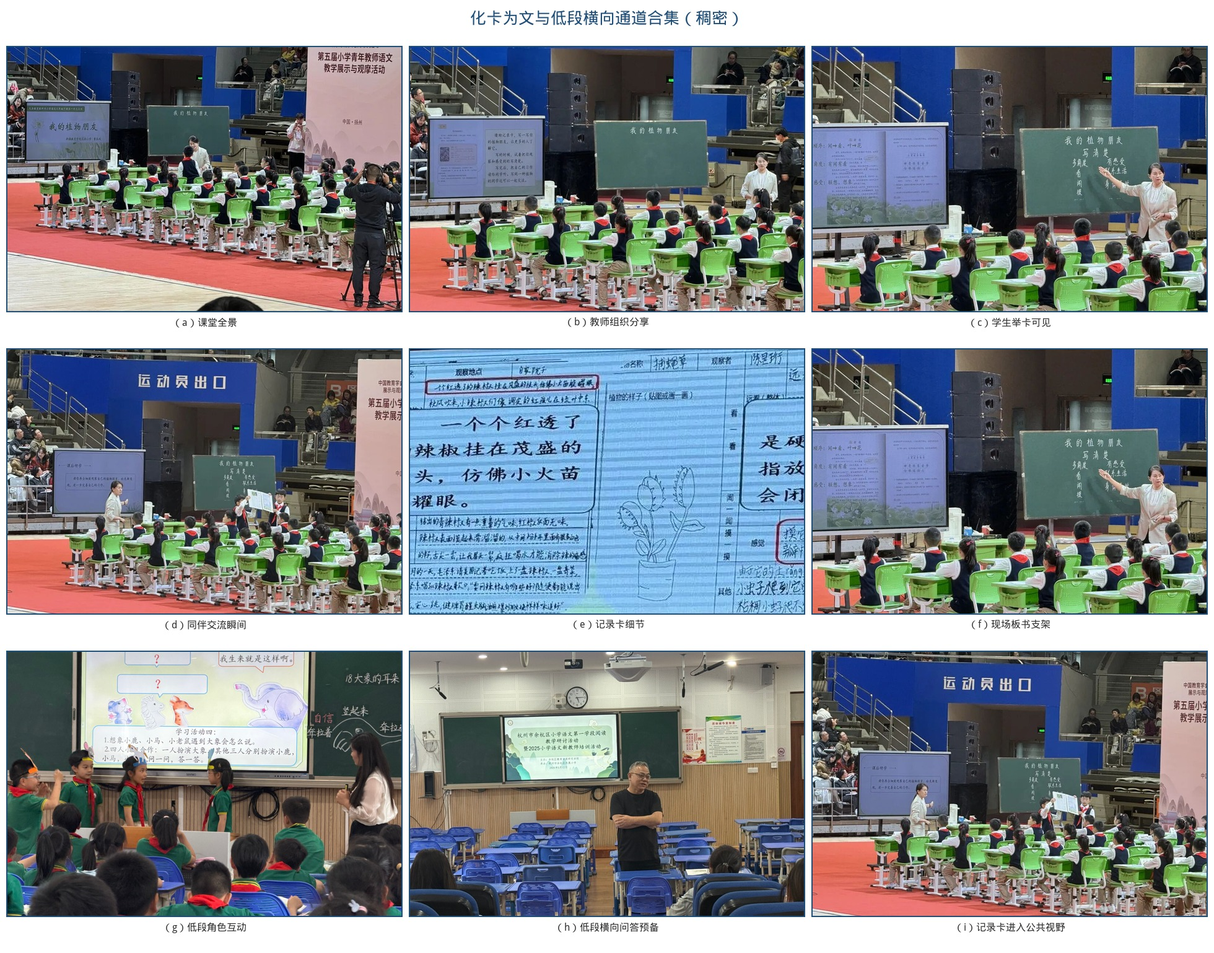
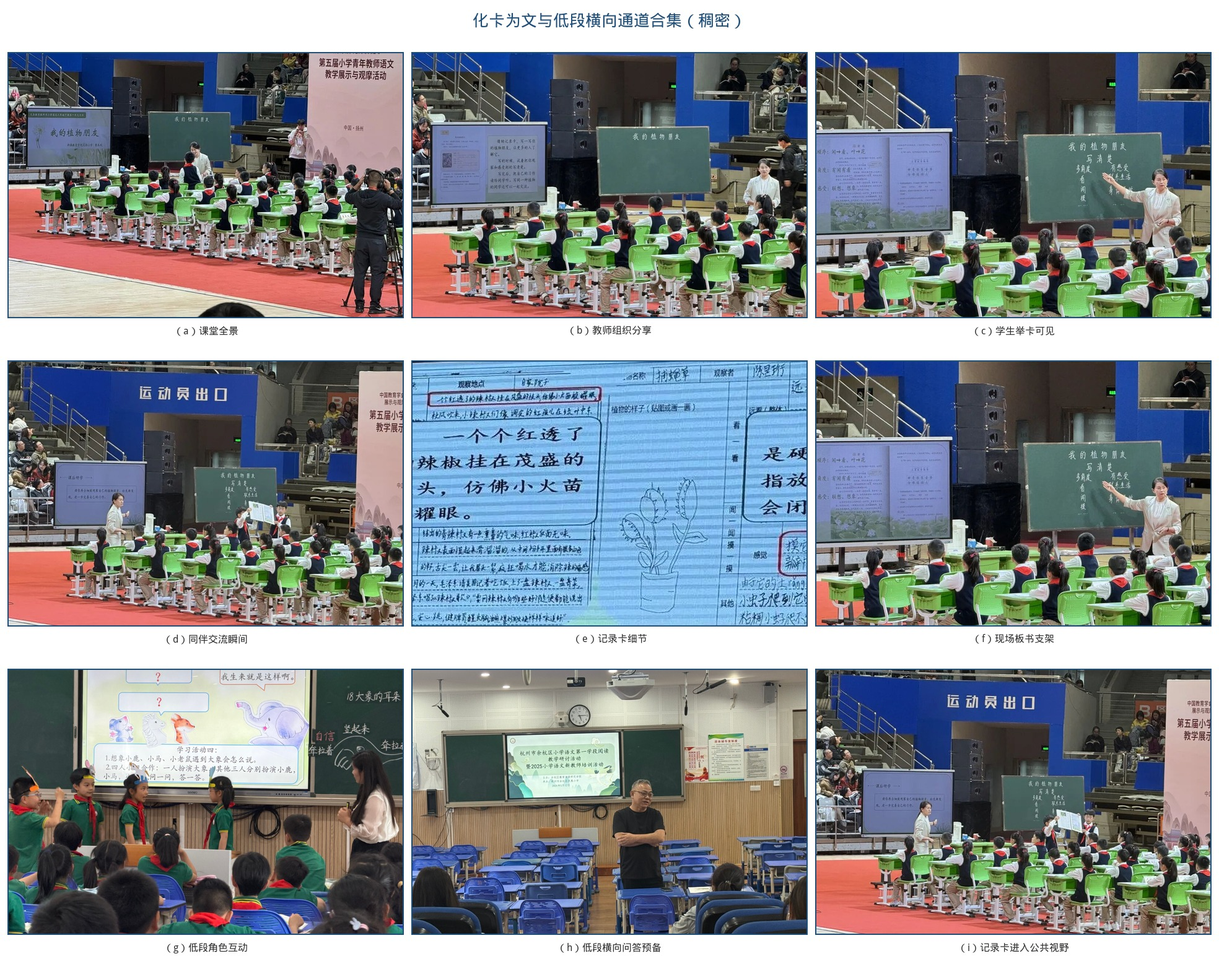
图13改为规范2×2拼版，参考文献只保留中文文献
删除UNESCO与米德等外文条目并重编号；图13四格对应字卡投屏、行列就座、举手应答、角色扮演。

Changed region(s): [[0.0, 0.0, 0.9959, 0.9987], [0.8092, 0.4057, 0.8403, 0.4681], [0.249, 0.749, 0.2801, 0.7802]]

diff --git a/scripts/compose_dense_plates.py b/scripts/compose_dense_plates.py
@@ -119,22 +119,26 @@ def dense_grid(
     DENSE.mkdir(parents=True, exist_ok=True)
     n = len(items)
     nrows = (n + ncols - 1) // ncols
-    pad, cap_h, title_h, gap = 14, 48, 64, 10
+    pad, cap_h, title_h, gap = 16, 56, 72, 12
+    if ncols == 2 and n == 4:
+        cell = (860, 560)
+        cap_h, title_h, gap = 64, 78, 16
     W = ncols * cell[0] + (ncols + 1) * gap
     H = title_h + nrows * (cell[1] + cap_h) + (nrows + 1) * gap
     canvas = Image.new("RGB", (W, H), "white")
     draw = ImageDraw.Draw(canvas)
-    draw.text((W // 2, 16), title, fill=NAVY, font=_font(26), anchor="mt")
+    draw.text((W // 2, 20), title, fill=NAVY, font=_font(30 if ncols == 2 and n == 4 else 26), anchor="mt")
     for i, (path, caption) in enumerate(items):
         r, c = divmod(i, ncols)
         x = gap + c * (cell[0] + gap)
         y = title_h + gap + r * (cell[1] + cap_h + gap)
         img = _fit(path, cell[0], cell[1], mode=fit)
         canvas.paste(img, (x, y))
-        draw.rectangle([x, y, x + cell[0] - 1, y + cell[1] - 1], outline=NAVY, width=2)
+        draw.rectangle([x, y, x + cell[0] - 1, y + cell[1] - 1], outline=NAVY,
+                       width=3 if ncols == 2 and n == 4 else 2)
         # wrap caption roughly
-        draw.text((x + cell[0] // 2, y + cell[1] + 8), caption, fill="#2F2F2F",
-                  font=_font(16), anchor="mt")
+        draw.text((x + cell[0] // 2, y + cell[1] + 12), caption, fill="#2F2F2F",
+                  font=_font(22 if ncols == 2 and n == 4 else 16), anchor="mt")
     dest = OUT / out_name
     canvas.save(dest, quality=92)
     # also keep a copy under dense/
@@ -298,9 +302,14 @@ def compose_dense() -> None:
         "（a）字卡／谜语投屏", "（b）低段课堂就座",
         "（c）举手应答", "（d）角色扮演",
     ]
-    dense_grid(list(zip(staged["low"], labels)), "plate_low.jpg",
-               "低段阅读研讨合集：情境打开与通道仍偏放射", ncols=2,
-               cell=(720, 460))
+    dense_grid(
+        list(zip(staged["low"], labels)),
+        "plate_low.jpg",
+        "图13 低段阅读研讨合集（2×2）",
+        ncols=2,
+        cell=(860, 560),
+        fit="cover",
+    )
 
     meta = {k: [str(p.relative_to(ROOT)) for p in v] for k, v in staged.items()}
     (DENSE / "manifest.json").write_text(json.dumps(meta, ensure_ascii=False, indent=2), encoding="utf-8")

diff --git a/失衡·校准·均衡_AI赋能小学语文三元协同师生互动优化策略.md b/失衡·校准·均衡_AI赋能小学语文三元协同师生互动优化策略.md
@@ -45,7 +45,7 @@
 若将师生互动等同于课堂提问，交往便进不了教学过程的基本构成。评价优先看进度和知识点覆盖，教师便不敢将时间交给开放探究。学生的倾听、表达、合作缺少常态训练，即使获得机会，也不容易形成高质量对话。生成式人工智能进入后，若提问权和评价权再让给机器，教师容易变成播放者，学生容易变成校对者。关系层面不校准，技术越流畅，主客关系越难松动。
 
 ### （三）技术失衡：工具越位，遮蔽真实对话
-形式与关系未获校准，生成式工具便容易从支架变为越位的判断者：替学生思考，替教师判断，呈现替答、替评、替演、替证等越位表现。《中小学生成式人工智能使用指南（2025年版）》提出“育人为本、技术为用”，明确教师不得将其作为替代性教学主体，小学阶段学生不得独自使用开放式内容生成功能；《中小学人工智能通识教育指南（2025年版）》与《教师生成式人工智能应用指引（第一版）》亦分别从学生素养与教师专业应用侧给出边界。UNESCO《教师人工智能能力框架》《学生人工智能能力框架》及《生成式人工智能教育与研究应用指南》也指出，教学关系可以转为教师—AI—学生，核心仍是人的主体性。祝智庭等提出的人本人工智能范式，同样强调技术服务于人的发展而非替代人。黄荣怀将数字化进阶概括为环境、资源、数字教学法：若停留在设备在场，进不了教学法层面，便容易高投入、低回报。
+形式与关系未获校准，生成式工具便容易从支架变为越位的判断者：替学生思考，替教师判断，呈现替答、替评、替演、替证等越位表现。《中小学生成式人工智能使用指南（2025年版）》提出“育人为本、技术为用”，明确教师不得将其作为替代性教学主体，小学阶段学生不得独自使用开放式内容生成功能；《中小学人工智能通识教育指南（2025年版）》与《教师生成式人工智能应用指引（第一版）》亦分别从学生素养与教师专业应用侧给出边界。教学关系可以转为教师—AI—学生，核心仍是人的主体性。祝智庭等提出的人本人工智能范式，同样强调技术服务于人的发展而非替代人。黄荣怀将数字化进阶概括为环境、资源、数字教学法：若停留在设备在场，进不了教学法层面，便容易高投入、低回报。
 
 #### 1. 替答现象：工具代答，学生跳过自主思考
 学生对着屏幕读标准赏析，教师点头，进入下一题。主体都在场，过程没有生成。直接输出寓意、中心思想或范文，学生跳过探究与试错，概念交互被切断。这也与《使用指南》禁止将生成内容直接作为作业或考试答案的要求相悖。
@@ -57,7 +57,7 @@
 角色陪练、人机问答替代真实交流与情意回应。机器可以模拟对话，但不能代替学生在同伴面前真实表达、倾听与回应；一旦以人机问答充当情意交流，课堂的共情与价值判断便被架空。
 
 #### 4. 替证现象：工具出场，被误认为课堂升级
-将是否使用生成式人工智能当作课堂先进的证明，是第四类越位。操作层流畅，不等于概念层发生。《教育强国建设规划纲要（2024—2035年）》强调以教育数字化开辟发展新赛道；数字化若只停留在设备与平台，而未进入教学法层面的通道、权责与边界设计，就容易出现高投入、低互动质量。UNESCO《2023年全球教育监测报告》也提醒，教育技术影响的可靠证据仍然不足，技术不能取代教与学所依赖的人际连接。情感体察和价值判断仍须由人完成。三类失衡的识别与校准指向见表1；结构示意见图3，现场用过的板书和记录卡见图4——支架材料往往清楚，缺的是通道和权责。
+将是否使用生成式人工智能当作课堂先进的证明，是第四类越位。操作层流畅，不等于概念层发生。《教育强国建设规划纲要（2024—2035年）》强调以教育数字化开辟发展新赛道；数字化若只停留在设备与平台，而未进入教学法层面的通道、权责与边界设计，就容易出现高投入、低互动质量。教育技术不能取代教与学所依赖的人际连接。情感体察和价值判断仍须由人完成。三类失衡的识别与校准指向见表1；结构示意见图3，现场用过的板书和记录卡见图4——支架材料往往清楚，缺的是通道和权责。
 
 **表1 三类失衡、识别信号与校准指向**
 
@@ -162,7 +162,7 @@
 **图9 复权合集（稠密九联）：同桌互读、持麦解释、支架动笔与习作异构现场**
 
 #### 3. 三元归位：人守判断，防止关系再度弱化
-课堂上是否复位，看两个瞬间：学生说出与预设不同的答案时，教师是接住还是绕开；生成式工具给出看似标准的解读时，教师是宣读还是追问。《守株待兔》可不急于揭示“不可心存侥幸”，先让学生用自己的话说故事，再请工具扮演“守株人”辩解，学生追问庄稼谁来种、兔子会不会再来。工具只负责将问题归类投屏，教师抓住“侥幸—劳动—事理”组织对话。生成文本可以连贯，但不等于课文意义本身。判断仍须放到文本证据里，由学生比照、质疑、论证——自我与意义在互动中生成（米德）。关系校准之后，还要将终答和评分从机器手里拿回来。
+课堂上是否复位，看两个瞬间：学生说出与预设不同的答案时，教师是接住还是绕开；生成式工具给出看似标准的解读时，教师是宣读还是追问。《守株待兔》可不急于揭示“不可心存侥幸”，先让学生用自己的话说故事，再请工具扮演“守株人”辩解，学生追问庄稼谁来种、兔子会不会再来。工具只负责将问题归类投屏，教师抓住“侥幸—劳动—事理”组织对话。生成文本可以连贯，但不等于课文意义本身。判断仍须放到文本证据里，由学生比照、质疑、论证。关系校准之后，还要将终答和评分从机器手里拿回来。
 
 ### （三）守界之阶：限制越位，让技术回归支架
 守界对应技术失衡。通道有了，权责明了，若没有不可逾越的边界，工具仍会以更精致的方式替答、替评、替演、替证。
@@ -255,7 +255,7 @@
 
 ![](figures/plate_low.jpg)
 
-**图13 低段阅读研讨合集：字卡投屏、举手应答与角色扮演**
+**图13 低段阅读研讨合集（2×2）：（a）字卡／谜语投屏；（b）行列就座；（c）举手应答；（d）角色扮演**
 
 区域“赋能·分层·共生”习作集备与五校联研现场，把支架分层、互评可见做成可观察的教研动作，见图14。
 
@@ -307,24 +307,19 @@
 [2] 教育部基础教育教学指导委员会. 中小学生成式人工智能使用指南（2025年版）[S]. 2025.
 [3] 教育部基础教育教学指导委员会. 中小学人工智能通识教育指南（2025年版）[S]. 2025.
 [4] 教育部教师队伍建设专家指导委员会. 教师生成式人工智能应用指引（第一版）[S]. 2025.
-[5] UNESCO. AI competency framework for teachers[R]. Paris: UNESCO, 2024.
-[6] UNESCO. AI competency framework for students[R]. Paris: UNESCO, 2024.
-[7] UNESCO. Guidance for generative AI in education and research[R]. Paris: UNESCO, 2023.
-[8] 叶子，庞丽娟. 师生互动的本质与特征[J]. 教育研究，2001(4)：30-34.
-[9] 佐斌. 师生互动论——课堂师生互动的心理学研究[M]. 武汉：华中师范大学出版社，2002.
-[10] 叶澜. 让课堂焕发出生命活力——论中小学教学改革的深化[J]. 教育研究，1997(9)：3-8.
-[11] 陈丽. 远程学习的教学交互模型和教学交互层次塔[J]. 中国远程教育，2004(5)：24-28.
-[12] 祝智庭，韩中美，黄昌勤. 教育人工智能（eAI）：人本人工智能的新范式[J]. 电化教育研究，2021，42(1)：5-15.
-[13] 顾小清，王炜. 支持教师专业发展的课堂分析技术新探索[J]. 中国电化教育，2004(7)：18-21.
-[14] 方海光，高辰柱，陈佳. 改进型弗兰德斯互动分析系统及其应用[J]. 中国电化教育，2012(10)：109-113.
-[15] 余文森. 核心素养导向的课堂教学[M]. 上海：上海教育出版社，2017.
-[16] 米德. 心灵、自我与社会[M]. 赵月瑟，译. 上海：上海译文出版社，2018.
-[17] 陈晓波. 数字技术赋能小学语文课堂教学：路径与策略[J]. 语文建设，2023(12)：10.
-[18] 范佳荣，钟绍春. 人工智能技术引领下课堂教学数字化转型的本质认识、实践困境与突破路径[J]. 教育科学研究，2023(4)：11.
-[19] 余胜泉. 教育数字化转型的关键路径[J]. 华东师范大学学报（教育科学版），2023，41(3)：62.
-[20] 北京市人民政府. 人工智能赋能教育新生态　西城区学校展示数智技术重塑教学实践[EB/OL]. (2025-12-24)[2026-09-15]. https://www.beijing.gov.cn/ywdt/gqrd/202512/t20251224_4360512.html.
-[21] 黄荣怀. 数字技术赋能当前教育变革的内在逻辑——从环境、资源到数字教学法[J]. 中国基础教育，2024(1)：10-17.
-[22] UNESCO. Global education monitoring report 2023: Technology in education — A tool on whose terms?[R]. Paris: UNESCO, 2023.
-[23] 王春梅. 生成式人工智能赋能小学语文教学的探索[J]. 实验教学与仪器，2025，42(8)：141-144.
-[24] 贺琳珊，梅培军. 生成式人工智能赋能小学语文习作教学模式探索——以文心一言辅助《我来编童话》习作教学为例[J]. 中小学课堂教学研究，2025(3)：48-53.
-[25] 中共中央，国务院. 教育强国建设规划纲要（2024—2035年）[Z/OL]. (2025-01-19)[2026-09-16]. https://www.gov.cn/zhengce/202501/content_6999913.htm.
+[5] 叶子，庞丽娟. 师生互动的本质与特征[J]. 教育研究，2001(4)：30-34.
+[6] 佐斌. 师生互动论——课堂师生互动的心理学研究[M]. 武汉：华中师范大学出版社，2002.
+[7] 叶澜. 让课堂焕发出生命活力——论中小学教学改革的深化[J]. 教育研究，1997(9)：3-8.
+[8] 陈丽. 远程学习的教学交互模型和教学交互层次塔[J]. 中国远程教育，2004(5)：24-28.
+[9] 祝智庭，韩中美，黄昌勤. 教育人工智能（eAI）：人本人工智能的新范式[J]. 电化教育研究，2021，42(1)：5-15.
+[10] 顾小清，王炜. 支持教师专业发展的课堂分析技术新探索[J]. 中国电化教育，2004(7)：18-21.
+[11] 方海光，高辰柱，陈佳. 改进型弗兰德斯互动分析系统及其应用[J]. 中国电化教育，2012(10)：109-113.
+[12] 余文森. 核心素养导向的课堂教学[M]. 上海：上海教育出版社，2017.
+[13] 陈晓波. 数字技术赋能小学语文课堂教学：路径与策略[J]. 语文建设，2023(12)：10.
+[14] 范佳荣，钟绍春. 人工智能技术引领下课堂教学数字化转型的本质认识、实践困境与突破路径[J]. 教育科学研究，2023(4)：11.
+[15] 余胜泉. 教育数字化转型的关键路径[J]. 华东师范大学学报（教育科学版），2023，41(3)：62.
+[16] 北京市人民政府. 人工智能赋能教育新生态　西城区学校展示数智技术重塑教学实践[EB/OL]. (2025-12-24)[2026-09-15]. https://www.beijing.gov.cn/ywdt/gqrd/202512/t20251224_4360512.html.
+[17] 黄荣怀. 数字技术赋能当前教育变革的内在逻辑——从环境、资源到数字教学法[J]. 中国基础教育，2024(1)：10-17.
+[18] 王春梅. 生成式人工智能赋能小学语文教学的探索[J]. 实验教学与仪器，2025，42(8)：141-144.
+[19] 贺琳珊，梅培军. 生成式人工智能赋能小学语文习作教学模式探索——以文心一言辅助《我来编童话》习作教学为例[J]. 中小学课堂教学研究，2025(3)：48-53.
+[20] 中共中央，国务院. 教育强国建设规划纲要（2024—2035年）[Z/OL]. (2025-01-19)[2026-09-16]. https://www.gov.cn/zhengce/202501/content_6999913.htm.

diff --git a/图表与工具清单.md b/图表与工具清单.md
@@ -79,7 +79,7 @@ flowchart LR
 | 图7 | 《即景》破程合集 | 6 | 即景课堂＋观察单／片段 |
 | 图8 | 化卡为文合集 | 9 | 植物课堂＋记录卡＋低段角色 |
 | 图9 | 复权合集 | 9 | 古人课堂＋《这儿真美》动笔 |
-| 图13 | 低段阅读研讨合集 | 4 | 第一学段课堂实拍 |
+| 图13 | 低段阅读研讨合集 | 4（2×2） | 第一学段课堂实拍 |
 | 图14 | 区域习作教研合集 | 9 | 赋能分层＋五校备课课堂 |
 
 **已剔除、不入正文：** 小语名师联盟活动封面、公众号二维码、【板书设计】示意图、推文装饰条、空教室、听课席等。
